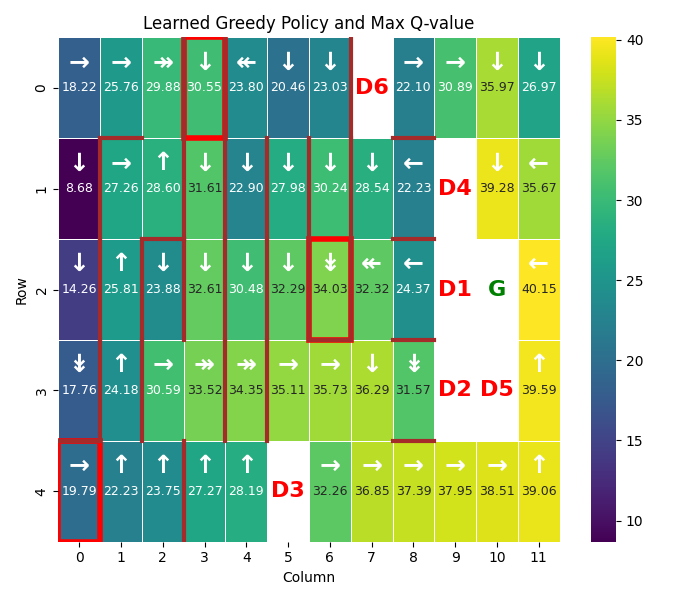
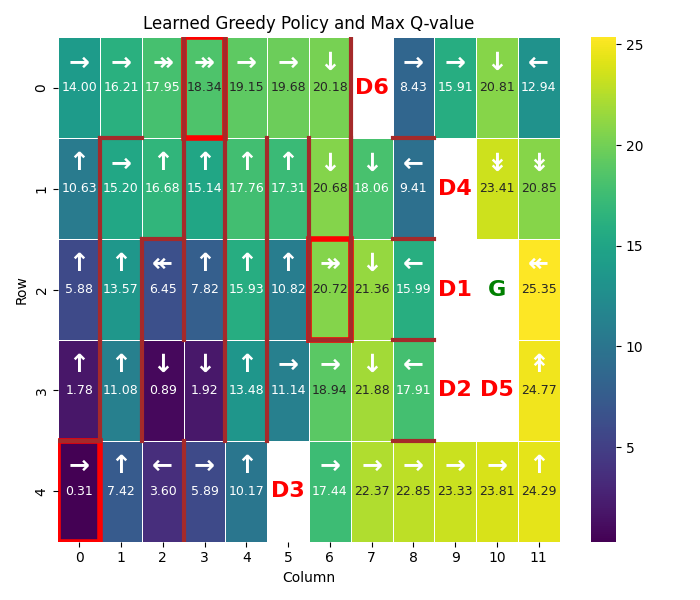
fixes

diff --git a/task_1_custom_env/q_learning.py b/task_1_custom_env/q_learning.py
@@ -5,6 +5,8 @@ import seaborn as sns
 import matplotlib.pyplot as plt
 import matplotlib.patches as patches
 import math
+from pathlib import Path
+import json
 
 
 # Function 1: Train Q-learning agent
@@ -16,8 +18,8 @@ def train_q_learning(env,
                      epsilon_decay,
                      alpha,
                      gamma,
-                     render,
-                     q_table_save_path="q_table.npy"):
+                     render
+                     ):
 
     # Initialize the Q-table:
     # -----------------------
@@ -27,7 +29,7 @@ def train_q_learning(env,
     # ---------------------
     #! Step 1: Run the algorithm for fixed number of episodes
     #! -------
-    delta = 65e-3
+    delta = 65e-6
     mem_cnt = 100
     lead = np.zeros((mem_cnt, env.grid_width, env.grid_height, env.action_space.n))
     tail = np.zeros((mem_cnt, env.grid_width, env.grid_height, env.action_space.n))
@@ -70,11 +72,11 @@ def train_q_learning(env,
 
         #! Step 6: Perform epsilon decay
         #! -------
-        # epsilon_fn = epsilon * epsilon_decay
-        epsilon_fn = math.sin(episode)**2 / math.log(episode + 2)
+        epsilon_fn = epsilon * epsilon_decay
+        # epsilon_fn = math.sin(episode)**2 / math.log(episode + 2)
         epsilon = max(epsilon_min, epsilon_fn)
 
-        # print(f"Episode {episode + 1}: Total Reward: {total_reward}")
+        print(f"Episode {episode + 1}: Total Reward: {total_reward}")
 
         if ((episode // mem_cnt) % 2):
             lead[episode % mem_cnt] = q_table.copy()
@@ -94,18 +96,39 @@ def train_q_learning(env,
 
     #! Step 8: Save the trained Q-table
     #! -------
-    np.save(q_table_save_path, q_table)
+    base = Path("experiments")
+    base.mkdir(exist_ok=True)
+    i = 1
+    while (base / f"experiment_{i}").exists():
+        i += 1
+
+    exp_dir = base / f"experiment_{i}"
+    exp_dir.mkdir()
+    np.save(exp_dir / "q_table.npy", q_table)
     print("Saved the Q-table.")
 
+    params = {
+        "no_episodes": no_episodes,
+        "epsilon_min": epsilon_min,
+        "epsilon_decay": epsilon_decay,
+        "alpha": alpha,
+        "gamma": gamma,
+    }
+
+    with open(exp_dir / "params.json", "w") as f:
+        json.dump(params, f, indent=4)
+
+    return exp_dir / "q_table.npy"
 
 # Function 2: Visualize the Q-table
 # -----------
 def visualize_q_table(danger_state_coordinates,
                       goal_coordinates,
+                      q_values_path,
                       actions=["Up", "Down", "Right", "Left", "Jump Up", "Jump Down", "Jump Right", "Jump Left"],
-                      q_values_path="q_table.npy",
                       wall_coordinates=None,
                       bonus_coordinates=(),
+                      save_res=False,
                       ):
 
     # Load the Q-table:
@@ -171,6 +194,8 @@ def visualize_q_table(danger_state_coordinates,
             ax.set_ylabel('Row')
 
         plt.tight_layout()
+        if save_res:
+            plt.savefig(Path(q_values_path).parent / "q_table.png")
         plt.show()
 
         # Visualize the learned greedy policy:
@@ -228,6 +253,8 @@ def visualize_q_table(danger_state_coordinates,
         ax.set_ylabel('Row')
 
         plt.tight_layout()
+        if save_res:
+            plt.savefig(Path(q_values_path).parent / "policy.png")
         plt.show()
 
     except FileNotFoundError:

diff --git a/task_1_custom_env/main.py b/task_1_custom_env/main.py
@@ -4,26 +4,27 @@ from engine.MyEnv import initiate_env
 from q_learning import train_q_learning, visualize_q_table
 from engine.Direction import Direction
 from engine.Config import InputMode, Difficulty
+from pathlib import Path
 
 # User definitions:
 # -----------------
-train = False
+train = True
 visualize_results = True
-render = True
+render = False
 
+experiment_to_visualize = 1
 """
 NOTE: Sometimes a fixed initializtion might push the agent to a local minimum.
 In this case, it is better to use a random initialization.  
 """
 random_initialization = True  # If True, the agent will be initialized randomly in the environment
 
-learning_rate = 0.01  # Learning rate
+learning_rate = [1e-2, 3e-4, 1e-1][0]  # Learning rate (alpha)
 gamma = 0.99  # Discount factor
 epsilon = 1.0  # Exploration rate
-epsilon_min = 0  # Minimum exploration rate
-# epsilon_decay = 0.9  # Decay rate for exploration
-epsilon_decay = 0.9999  # Decay rate for exploration
-no_episodes = 20_000  # Number of episodes
+epsilon_min = 0.1  # Minimum exploration rate
+epsilon_decay = 0.999  # Decay rate for exploration
+no_episodes = 10_000  # Number of episodes
 
 input_mode = InputMode.MANUAL
 difficulty = Difficulty.MEDIUM
@@ -86,7 +87,7 @@ if train:
 
     # Train a Q-learning agent:
     # -------------------------
-    train_q_learning(env=env,
+    result_path = train_q_learning(env=env,
                      no_episodes=no_episodes,
                      epsilon=epsilon,
                      epsilon_min=epsilon_min,
@@ -98,8 +99,10 @@ if train:
 if visualize_results:
     # Visualize the Q-table:
     # ----------------------
+    path = result_path if train else Path("experiments" / experiment_to_visualize)
     visualize_q_table(danger_state_coordinates=dangers,
                       goal_coordinates=goal_coordinates,
                       wall_coordinates=walls,
                       bonus_coordinates=bonuses,
-                      q_values_path="q_table.npy")
+                      q_values_path=result_path,
+                      save_res=train)
